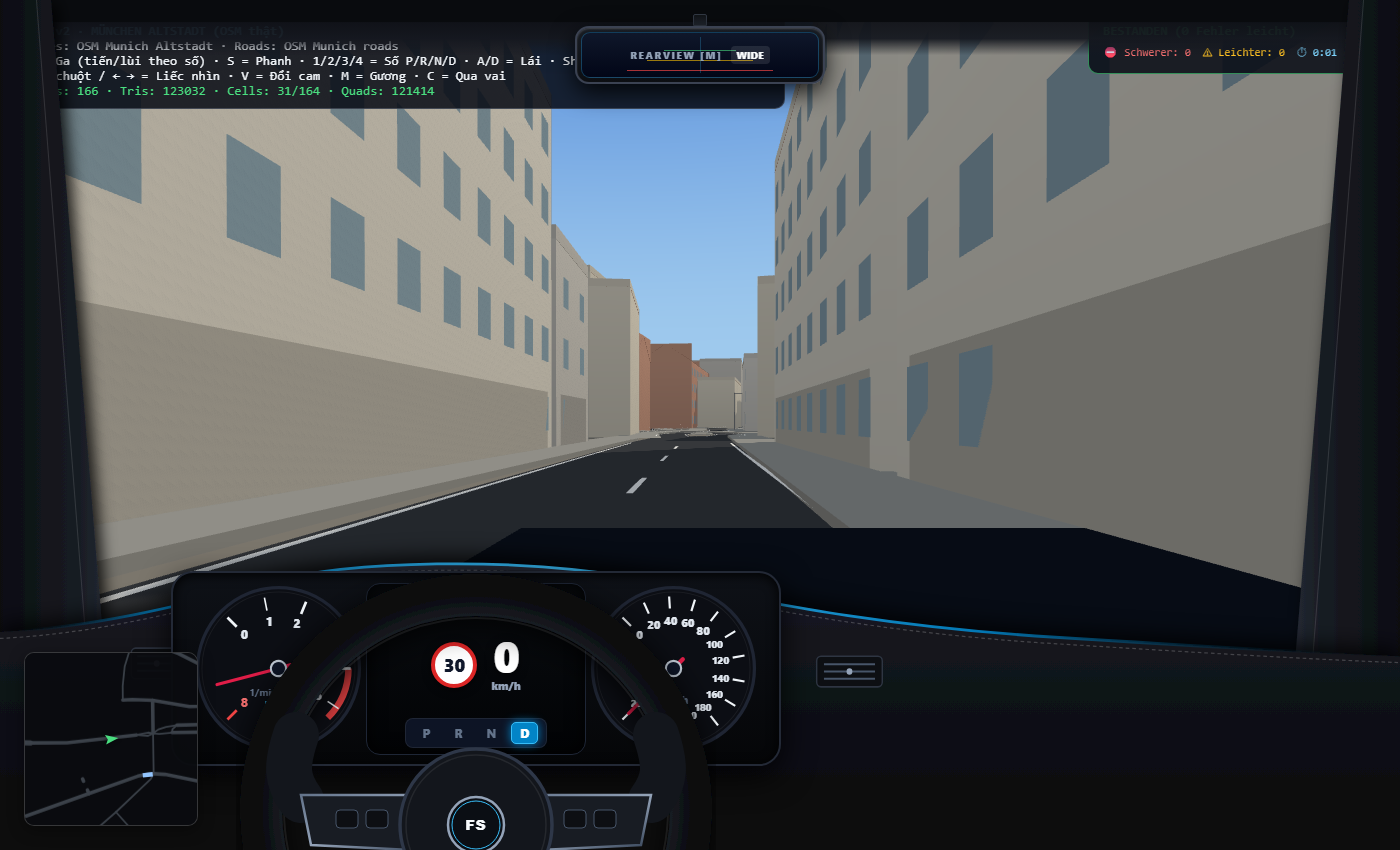
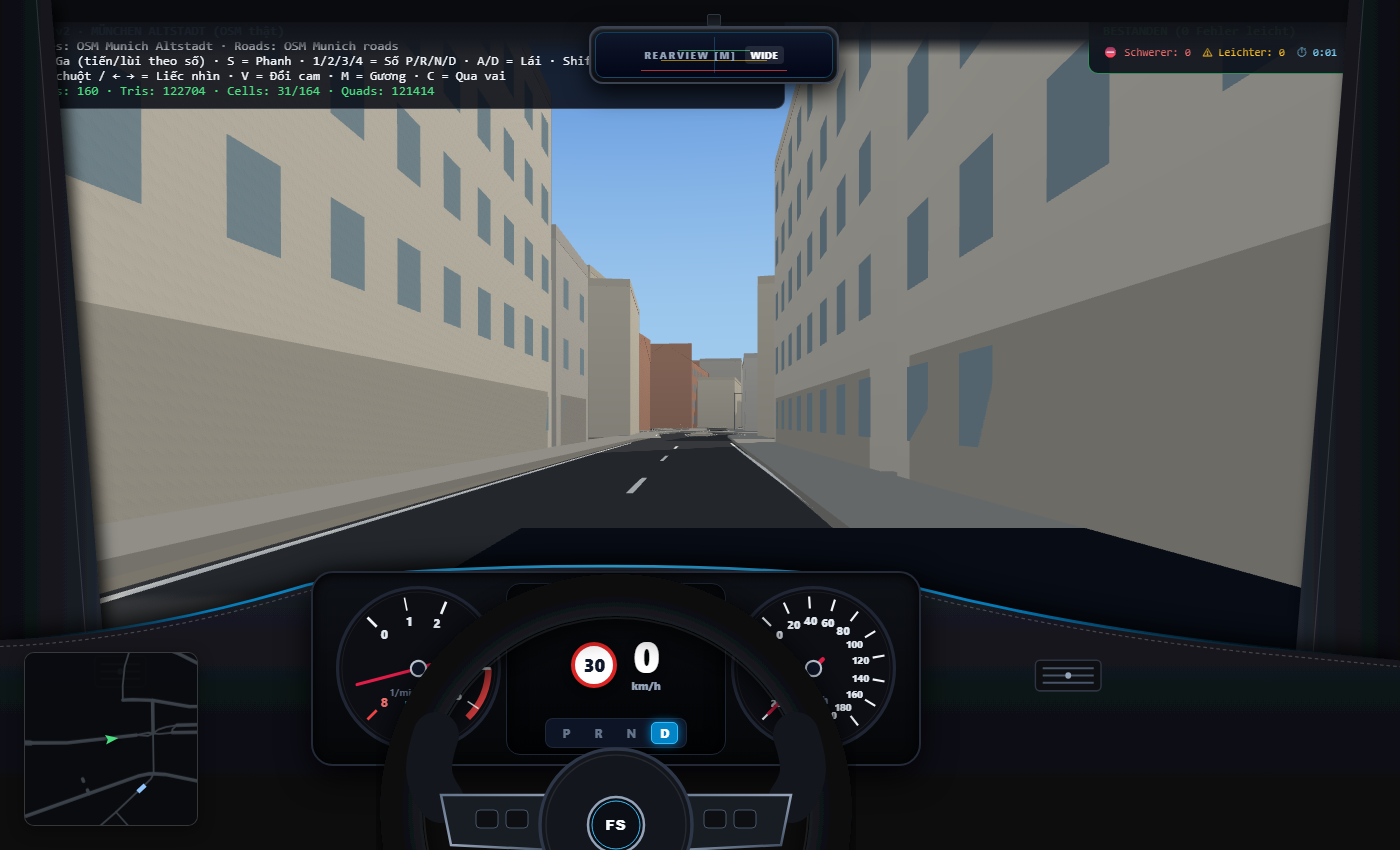
fix(cockpit): align steering wheel and cluster to driver forward line of sight (44%)

diff --git a/src/components/sim/ModernCockpit.tsx b/src/components/sim/ModernCockpit.tsx
@@ -15,10 +15,10 @@ export interface ModernCockpitProps {
 
 /**
  * 🚗 MODERN COCKPIT OVERLAY (Fahrschule & Sport Virtual Cockpit)
- * Buồng lái thể thao hiện đại, chuẩn tỉ lệ ghế lái xe Đức:
+ * Căn chuẩn trục nhìn ghế lái (Driver Eye Horizon ~44%):
  * - Khung kính chắn gió & Cột chữ A (A-Pillars) bọc da sang trọng
  * - Gương chiếu hậu trung tâm (Digital Rearview Mirror)
- * - Táp-lô vòm cong thể thao (Leather Stitching, Ambient Cyan Strip, Air Vents)
+ * - Táp-lô vòm cong thể thao cân đối tầm nhìn (Leather Stitching, Ambient Cyan Strip, Air Vents)
  * - Cụm đồng hồ Virtual Cockpit độ nét cao:
  *   + Đồng hồ vòng tua RPM Analog (0 - 8000 RPM, Redline đỏ 6500)
  *   + Đồng hồ tốc độ Analog (0 - 260 km/h, vạch đỏ StVO 30 / 50 / 100)
@@ -84,7 +84,6 @@ export const ModernCockpit: React.FC<ModernCockpitProps> = ({
         preserveAspectRatio="none"
       >
         <defs>
-          {/* Gradient Cột chữ A bên trái */}
           <linearGradient id="leftPillarGrad" x1="0%" y1="0%" x2="100%" y2="0%">
             <stop offset="0%" stopColor="#0b0d11" />
             <stop offset="65%" stopColor="#181c23" />
@@ -92,7 +91,6 @@ export const ModernCockpit: React.FC<ModernCockpitProps> = ({
             <stop offset="100%" stopColor="#0f1217" />
           </linearGradient>
 
-          {/* Gradient Cột chữ A bên phải */}
           <linearGradient id="rightPillarGrad" x1="100%" y1="0%" x2="0%" y2="0%">
             <stop offset="0%" stopColor="#0b0d11" />
             <stop offset="65%" stopColor="#181c23" />
@@ -100,14 +98,12 @@ export const ModernCockpit: React.FC<ModernCockpitProps> = ({
             <stop offset="100%" stopColor="#0f1217" />
           </linearGradient>
 
-          {/* Gradient viền mép trần xe */}
           <linearGradient id="roofGrad" x1="0%" y1="0%" x2="0%" y2="100%">
             <stop offset="0%" stopColor="#090a0d" />
             <stop offset="70%" stopColor="#15181f" />
             <stop offset="100%" stopColor="rgba(21, 24, 31, 0)" />
           </linearGradient>
 
-          {/* Bóng đổ kính lái */}
           <filter id="pillarShadow" x="-20%" y="-20%" width="140%" height="140%">
             <feDropShadow dx="8" dy="4" stdDeviation="10" floodColor="#000000" floodOpacity="0.85" />
           </filter>
@@ -139,7 +135,7 @@ export const ModernCockpit: React.FC<ModernCockpitProps> = ({
         style={{
           position: 'absolute',
           top: 14,
-          left: '50%',
+          left: '51%',
           transform: 'translateX(-50%)',
           display: 'flex',
           flexDirection: 'column',
@@ -240,9 +236,9 @@ export const ModernCockpit: React.FC<ModernCockpitProps> = ({
 
             <linearGradient id="ambientCyan" x1="0%" y1="0%" x2="100%" y2="0%">
               <stop offset="0%" stopColor="transparent" />
-              <stop offset="12%" stopColor="#0284c7" />
-              <stop offset="40%" stopColor="#38bdf8" />
-              <stop offset="70%" stopColor="#0284c7" />
+              <stop offset="15%" stopColor="#0284c7" />
+              <stop offset="44%" stopColor="#38bdf8" />
+              <stop offset="72%" stopColor="#0284c7" />
               <stop offset="100%" stopColor="transparent" />
             </linearGradient>
 
@@ -251,15 +247,15 @@ export const ModernCockpit: React.FC<ModernCockpitProps> = ({
             </filter>
           </defs>
 
-          {/* Khối táp-lô: Đường cong vòm che cụm đồng hồ chuẩn dáng xe Đức */}
+          {/* Vòm táp-lô căn chuẩn tầm nhìn lái xe: Đỉnh vòm quanh X = 845 (44% màn hình) */}
           <path
             d="
               M 0,400 
-              L 0,130 
-              C 120,125 240,100 370,68 
-              C 480,42 700,36 880,64 
-              C 1020,86 1160,118 1420,135 
-              C 1650,148 1800,156 1920,160 
+              L 0,140 
+              C 140,135 280,110 420,72 
+              C 560,40 1120,40 1260,76 
+              C 1400,108 1550,132 1720,148 
+              C 1820,156 1880,162 1920,165 
               L 1920,400 
               Z
             "
@@ -270,11 +266,11 @@ export const ModernCockpit: React.FC<ModernCockpitProps> = ({
           {/* Dải LED Ambient Cyan */}
           <path
             d="
-              M 0,130 
-              C 120,125 240,100 370,68 
-              C 480,42 700,36 880,64 
-              C 1020,86 1160,118 1420,135 
-              C 1650,148 1800,156 1920,160
+              M 0,140 
+              C 140,135 280,110 420,72 
+              C 560,40 1120,40 1260,76 
+              C 1400,108 1550,132 1720,148 
+              C 1820,156 1880,162 1920,165
             "
             stroke="url(#ambientCyan)"
             strokeWidth="3.5"
@@ -282,14 +278,14 @@ export const ModernCockpit: React.FC<ModernCockpitProps> = ({
             opacity="0.9"
           />
 
-          {/* Chỉ thêu kép da táp-lô */}
+          {/* Chỉ thêu da kép sang trọng */}
           <path
             d="
-              M 0,138 
-              C 120,133 240,108 370,76 
-              C 480,50 700,44 880,72 
-              C 1020,94 1160,126 1420,143 
-              C 1650,156 1800,164 1920,168
+              M 0,148 
+              C 140,143 280,118 420,80 
+              C 560,48 1120,48 1260,84 
+              C 1400,116 1550,140 1720,156 
+              C 1820,164 1880,170 1920,173
             "
             stroke="rgba(255,255,255,0.2)"
             strokeDasharray="5,4"
@@ -298,7 +294,7 @@ export const ModernCockpit: React.FC<ModernCockpitProps> = ({
           />
 
           {/* Cửa gió điều hòa bên trái */}
-          <g transform="translate(180, 150)">
+          <g transform="translate(130, 160)">
             <rect x="0" y="0" width="70" height="38" rx="6" fill="#0d0f13" stroke="#2e3542" strokeWidth="2" />
             <line x1="8" y1="10" x2="62" y2="10" stroke="#475569" strokeWidth="2.5" />
             <line x1="8" y1="19" x2="62" y2="19" stroke="#475569" strokeWidth="2.5" />
@@ -306,8 +302,8 @@ export const ModernCockpit: React.FC<ModernCockpitProps> = ({
             <circle cx="35" cy="19" r="4" fill="#94a3b8" />
           </g>
 
-          {/* Cửa gió điều hòa bên phải */}
-          <g transform="translate(1120, 160)">
+          {/* Cửa gió điều hòa bên phải (cụm phụ) */}
+          <g transform="translate(1420, 165)">
             <rect x="0" y="0" width="90" height="38" rx="6" fill="#0d0f13" stroke="#2e3542" strokeWidth="2" />
             <line x1="10" y1="10" x2="80" y2="10" stroke="#475569" strokeWidth="2.5" />
             <line x1="10" y1="19" x2="80" y2="19" stroke="#475569" strokeWidth="2.5" />
@@ -320,7 +316,7 @@ export const ModernCockpit: React.FC<ModernCockpitProps> = ({
         <div
           style={{
             position: 'absolute',
-            left: '34%',
+            left: '44%',
             bottom: '26%',
             transform: 'translateX(-50%)',
             width: 610,
@@ -352,7 +348,6 @@ export const ModernCockpit: React.FC<ModernCockpitProps> = ({
                 opacity="0.9"
               />
 
-              {/* Vạch chia 0 đến 8 */}
               {[0, 1, 2, 3, 4, 5, 6, 7, 8].map((tick) => {
                 const angle = -135 + (tick / 8) * 270;
                 const rad = (angle * Math.PI) / 180;
@@ -461,7 +456,6 @@ export const ModernCockpit: React.FC<ModernCockpitProps> = ({
 
             {/* Giữa: Biển báo StVO + Tốc độ số lớn */}
             <div style={{ display: 'flex', alignItems: 'center', justifyContent: 'center', gap: 14 }}>
-              {/* Biển báo StVO Đức (Zeichen 274) */}
               <div
                 style={{
                   width: 46,
@@ -482,7 +476,6 @@ export const ModernCockpit: React.FC<ModernCockpitProps> = ({
                 </span>
               </div>
 
-              {/* Tốc độ số Digital */}
               <div style={{ textAlign: 'center' }}>
                 <div
                   style={{
@@ -549,7 +542,6 @@ export const ModernCockpit: React.FC<ModernCockpitProps> = ({
               <circle cx="80" cy="80" r="74" fill="#0c0e14" stroke="#1f2533" strokeWidth="3" />
               <circle cx="80" cy="80" r="70" fill="none" stroke="rgba(255,255,255,0.06)" strokeWidth="1" />
 
-              {/* Vạch chia tốc độ 0 - 260 km/h */}
               {[0, 20, 40, 60, 80, 100, 120, 140, 160, 180, 200, 220, 240, 260].map((v) => {
                 const angle = -135 + (v / 260) * 270;
                 const rad = (angle * Math.PI) / 180;
@@ -605,7 +597,7 @@ export const ModernCockpit: React.FC<ModernCockpitProps> = ({
         <div
           style={{
             position: 'absolute',
-            left: '34%',
+            left: '44%',
             bottom: '-62%',
             transform: `translateX(-50%) rotate(${steerDeg}deg)`,
             transformOrigin: '240px 240px',
@@ -635,7 +627,7 @@ export const ModernCockpit: React.FC<ModernCockpitProps> = ({
               </filter>
             </defs>
 
-            {/* Vành ngoài vô-lăng (Thick Sports Rim) */}
+            {/* Vành ngoài vô-lăng */}
             <circle
               cx="240"
               cy="240"
@@ -646,7 +638,7 @@ export const ModernCockpit: React.FC<ModernCockpitProps> = ({
               filter="url(#wheelShadow)"
             />
 
-            {/* Viền kim loại mờ bên trong vành */}
+            {/* Viền kim loại mờ */}
             <circle
               cx="240"
               cy="240"
@@ -656,7 +648,7 @@ export const ModernCockpit: React.FC<ModernCockpitProps> = ({
               strokeWidth="2"
             />
 
-            {/* Gờ tì ngón tay cái thể thao (Thumb grips tại hướng 10h và 2h) */}
+            {/* Gờ tì ngón tay cái thể thao */}
             <path
               d="M 60,165 C 50,195 50,210 65,230"
               stroke="#13161c"
@@ -699,7 +691,7 @@ export const ModernCockpit: React.FC<ModernCockpitProps> = ({
             />
             <rect x="233" y="340" width="14" height="65" rx="7" fill="#0e1117" />
 
-            {/* Trung tâm túi khí (Airbag Hub & Horn Pad) */}
+            {/* Trung tâm túi khí */}
             <circle
               cx="240"
               cy="255"
@@ -717,7 +709,7 @@ export const ModernCockpit: React.FC<ModernCockpitProps> = ({
               strokeWidth="1.5"
             />
 
-            {/* Logo trung tâm Fahrschule / Sport Emblem */}
+            {/* Logo trung tâm Fahrschule */}
             <circle cx="240" cy="255" r="28" fill="#0b0e14" stroke="#94a3b8" strokeWidth="2.5" />
             <circle cx="240" cy="255" r="24" fill="none" stroke="#38bdf8" strokeWidth="1" />
             <text
